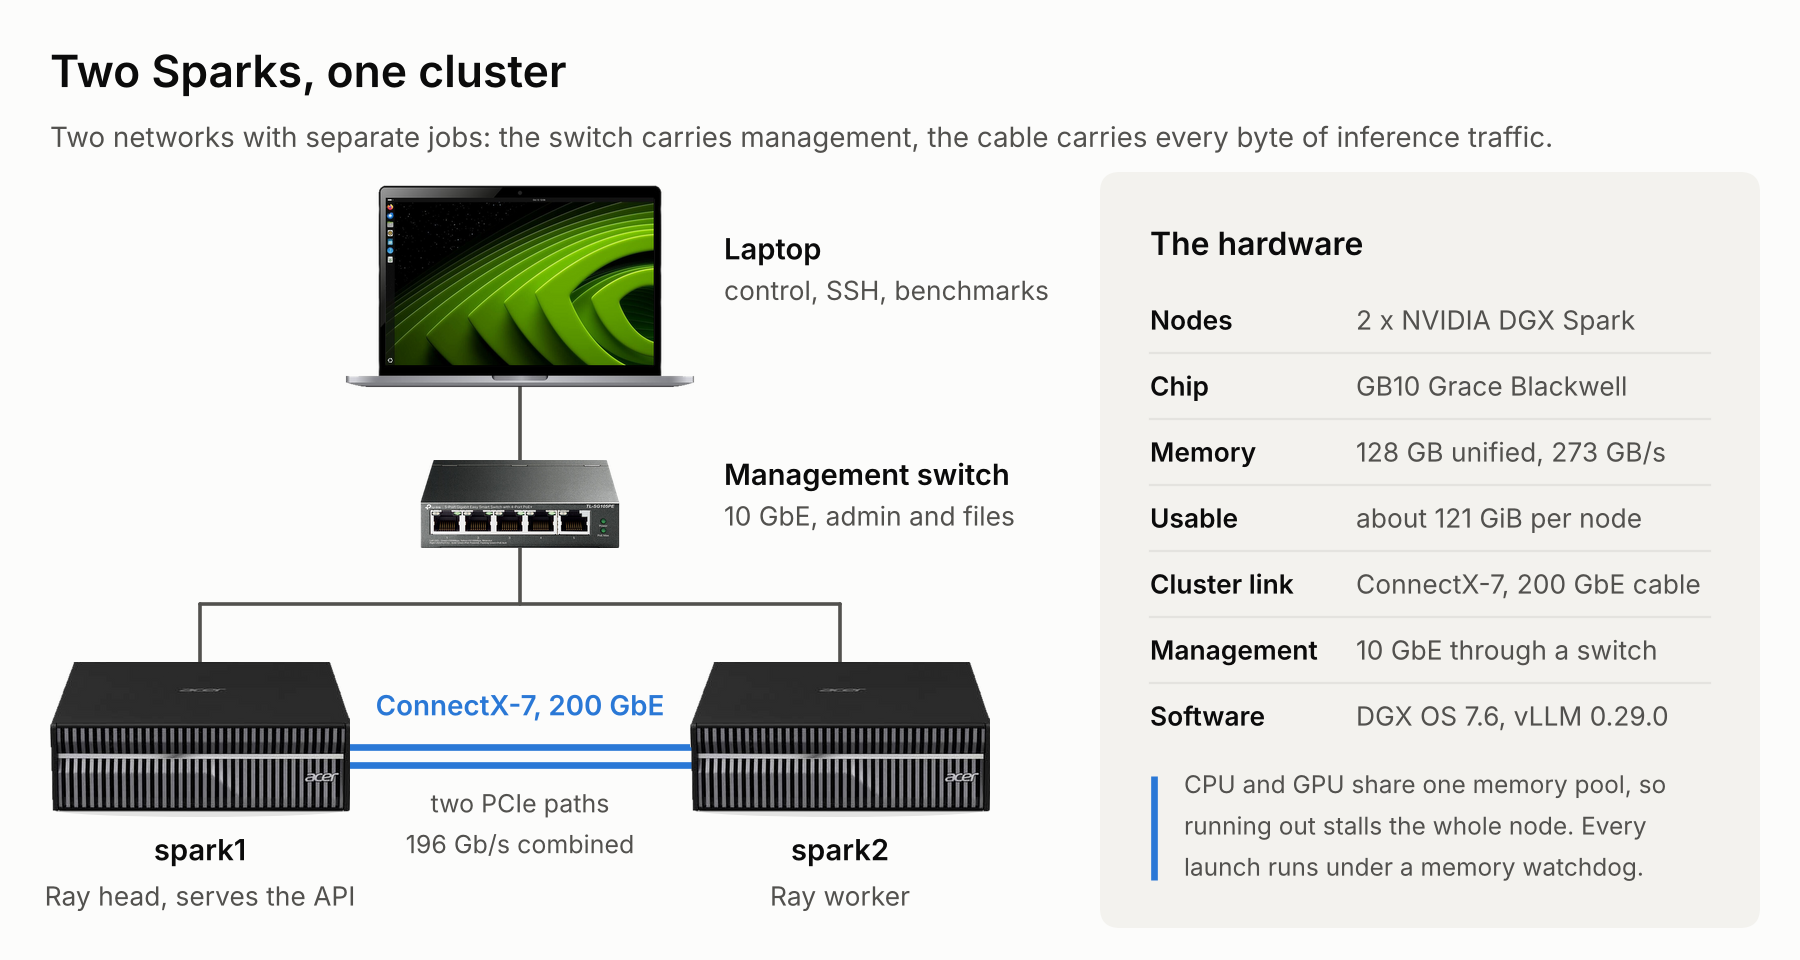
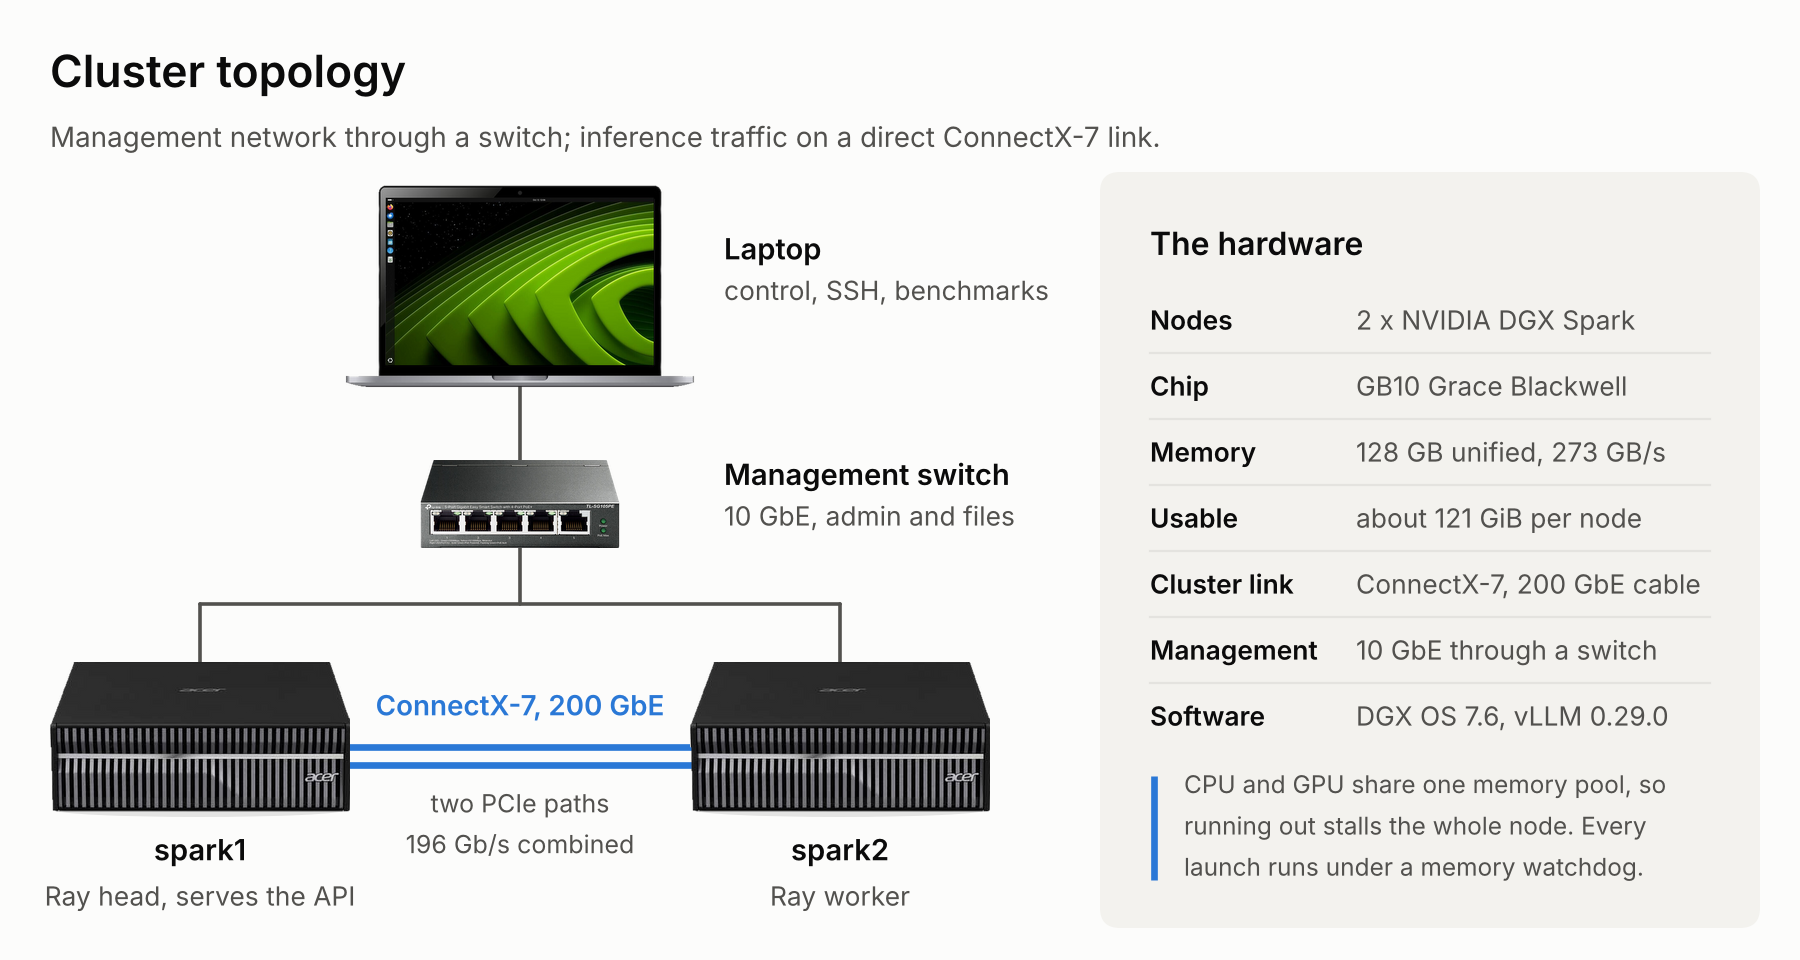
Plain README: state what was built and tested (#1)
- Retitle README to match the report: "Multi-Node LLM Inference on Two NVIDIA DGX Sparks"
- Replace tagline and editorial findings with what was built, what was tested, and a results table of measured numbers
- Add a status line for the pending compiled-stack rerun (report section 8)
- Rewrite the report summary bullets in the same plain tone
- Retitle the topology figure "Cluster topology"

Claude-Session: https://claude.ai/code/session_01KrfyMcMuAf2RmLbyehHn1p

Changed region(s): [[0.0311, 0.125, 0.8711, 0.1562], [0.0311, 0.0625, 0.3111, 0.0938]]

diff --git a/scripts/make_figures.py b/scripts/make_figures.py
@@ -263,9 +263,9 @@ def topology():
             "running out stalls the whole node. Every\nlaunch runs under a memory watchdog.",
             fontsize=8.8, color=INK2, va="center", linespacing=1.4, zorder=3)
 
-    ax.text(0.25, H - 0.22, "Two Sparks, one cluster", fontsize=16, weight="semibold", color=INK, va="top")
-    ax.text(0.25, H - 0.6, "Two networks with separate jobs: the switch carries management, "
-            "the cable carries every byte of inference traffic.", fontsize=10, color=INK2, va="top")
+    ax.text(0.25, H - 0.22, "Cluster topology", fontsize=16, weight="semibold", color=INK, va="top")
+    ax.text(0.25, H - 0.6, "Management network through a switch; inference traffic on a direct "
+            "ConnectX-7 link.", fontsize=10, color=INK2, va="top")
     ax.set_xlim(0, W)
     ax.set_ylim(0, H)
     save(fig, "topology.png")

diff --git a/README.md b/README.md
@@ -1,22 +1,46 @@
-# Two DGX Sparks, One Cable
+# Multi-Node LLM Inference on Two NVIDIA DGX Sparks
 
-What a second NVIDIA DGX Spark actually buys for LLM inference, measured. Two GB10 systems joined by a direct 200 GbE ConnectX-7 link, serving models across both nodes with vLLM, with predictions recorded before each experiment and scored after.
+Two NVIDIA DGX Spark nodes, connected by a direct 200 GbE ConnectX-7 link and a separate management network, serving LLMs across both nodes with vLLM. This repository contains the setup guide, the validation scripts, the measured data and a full report: [REPORT.md](REPORT.md).
 
-**Read the write-up: [REPORT.md](REPORT.md)**
+![Cluster topology: a laptop and switch on the management network, two DGX Sparks joined by one ConnectX-7 cable](figures/topology.png)
 
-![Two Sparks, one cluster: a laptop and switch on the management network, two DGX Sparks joined by one ConnectX-7 cable](figures/topology.png)
+## What was built
 
-## Findings
+- **Hardware:** 2 x NVIDIA DGX Spark (GB10 Grace Blackwell, 128 GB unified memory at 273 GB/s, sm_121).
+- **Network:** a direct 200 GbE QSFP cable between the two ConnectX-7 ports for inference traffic; a 10 GbE switch and a laptop on a private subnet for management.
+- **Software:** vLLM serving one model across both nodes with Ray and NCCL over RDMA. Pilot runs used a containerized vLLM in eager mode; later runs used native vLLM 0.29.0 on DGX OS 7.6.0.
 
-- **The link reaches 196 Gb/s, but only with both PCIe paths driven at once.** One path caps near 112 Gb/s at any frame size.
-- **Tensor parallelism beats pipeline parallelism across the wire,** 2.01x single-stream and 1.65x at concurrency 32. The prediction said the opposite; transfer volume, not bandwidth ratio, decides it.
-- **A second node helps even when the model fits on one:** 1.57x single-stream throughput and 1.77x faster per-token latency for a 27B model.
-- **Decode is memory-bandwidth bound plus a constant.** 87.7% of the 273 GB/s ceiling, and about 30 ms per forward pass of eager-mode overhead regardless of model or node count.
-- **Throughput claims need a correctness gate.** Every configuration must return correct, uncontaminated answers under load before its numbers count.
+## What was tested
 
-![Tensor parallelism beats pipeline parallelism across the link](figures/tp_vs_pp.png)
+- ConnectX-7 link bandwidth and latency, one PCIe path versus both
+- Tensor parallelism (TP2) versus pipeline parallelism (PP2) across the link
+- One node versus two for a model that fits on one
+- Single-stream decode against the memory-bandwidth ceiling
+- KV-cache capacity at BF16, FP8 and NVFP4
+- A correctness gate under concurrent load, required before any throughput number is counted
 
-## Building it
+Predictions were recorded before each pilot experiment and scored afterward (report section 5).
+
+## Results
+
+| Test | Configuration | Result |
+|---|---|---|
+| Link bandwidth | Both PCIe paths, MTU 9000, `ib_write_bw` | 196.03 Gb/s (98% of line rate) |
+| Link bandwidth | One PCIe path | 111.7 Gb/s |
+| Link latency | `ib_write_lat` | about 1.7 µs |
+| TP2 vs PP2 | Llama 3.3 70B, concurrency 1 | 3.39 vs 1.69 tok/s (2.01x) |
+| TP2 vs PP2 | Llama 3.3 70B, concurrency 32 | 65.3 vs 39.5 tok/s (1.65x) |
+| Two nodes vs one | Qwen3.8 27B, concurrency 1 | 5.71 vs 3.64 tok/s (1.57x); 130 vs 230 ms per token |
+| Decode efficiency | Llama 3.3 70B TP2, concurrency 1 | 87.7% of the 273 GB/s ceiling |
+| Fixed overhead | Pilot, eager mode, all configurations | about 30 ms per forward pass |
+| KV-cache capacity | Qwen3.8 27B, relative to BF16 | NVFP4 weights 1.64x; FP8 KV cache 1.35x |
+| Single-node throughput | Qwen3.8 27B, native stack, concurrency 64 | 120.7 tok/s; ceiling about 191 sequences |
+
+![Tensor parallelism versus pipeline parallelism, Llama 3.3 70B](figures/tp_vs_pp.png)
+
+**Status:** the pilot ran in eager mode. A rerun of the pilot on the compiled native stack is planned; report section 8 lists its predictions, and results will be added there.
+
+## Setup screenshots
 
 NVIDIA's Cluster Assistant configures the ConnectX-7 link: two addresses per node, one per PCIe path, then a link test. Its 185.2 Gbps is the dual-path rate before jumbo frames; with MTU 9000 the link measures 196 Gb/s. Full steps: [docs/SETUP.md](docs/SETUP.md).
 
@@ -36,9 +60,7 @@ NVIDIA's Cluster Assistant configures the ConnectX-7 link: two addresses per nod
 | [`results/`](results/) | Measured data as CSV |
 | [`figures/`](figures/) | Charts, regenerated from `results/` by [`scripts/make_figures.py`](scripts/make_figures.py) |
 
-## Hardware and software
-
-2 x NVIDIA DGX Spark (GB10 Grace Blackwell, 128 GB unified memory, sm_121), one 200 GbE QSFP direct-attach cable, a laptop for control. Native vLLM 0.29.0, PyTorch 2.13, FlashInfer 0.6.18, NCCL 2.29.7, Ray 2.58.0 on DGX OS 7.6.0. Pilot runs used an earlier containerized vLLM; versions are listed in the report.
+Software versions: native vLLM 0.29.0, PyTorch 2.13, FlashInfer 0.6.18, NCCL 2.29.7, Ray 2.58.0 on DGX OS 7.6.0. Pilot versions are listed in the report.
 
 ## License
 

diff --git a/REPORT.md b/REPORT.md
@@ -6,13 +6,13 @@ Jacob Willson · October 2026
 
 Two NVIDIA DGX Spark systems were joined over a direct 200 GbE ConnectX-7 cable and run as one vLLM inference cluster. The work had two stages: a pilot that compared parallelism strategies with predictions recorded in advance, and a calibration phase that moved to a native software stack and built a correctness-gated measurement method.
 
-Five results stand out.
+Main results:
 
-- **The link reaches 196.03 Gb/s, 98% of line rate, but only when both PCIe paths are driven at once.** One path caps near 112 Gb/s at any frame size.
-- **Tensor parallelism beats pipeline parallelism across the wire,** by 2.01x on single-stream decode and 1.65x at concurrency 32. The pilot predicted the opposite.
-- **A second node helps even when the model fits on one.** Splitting a 27B model gave 1.57x single-stream throughput and 1.77x faster per-token latency, also contrary to prediction.
-- **Decode is governed by memory bandwidth, plus a constant.** Single-stream decode reached 87.7% of the 273 GB/s ceiling, and every configuration paid about 30 ms per forward pass on top of weight streaming in eager mode.
-- **On the native stack, throughput claims need a correctness gate.** Fast output can be wrong output. Every configuration here had to return correct, uncontaminated answers under load before its numbers counted.
+- **Link bandwidth:** 196.03 Gb/s, 98% of line rate, with both PCIe paths driven at once. One path reaches about 112 Gb/s at any frame size.
+- **Tensor versus pipeline parallelism:** TP2 was 2.01x faster than PP2 on single-stream decode and 1.65x faster at concurrency 32 (Llama 3.3 70B). The pilot predicted PP2 would win.
+- **One node versus two:** splitting Qwen3.8 27B across both nodes gave 1.57x single-stream throughput and 1.77x lower per-token latency, although the model fits on one node. The pilot predicted no single-stream gain.
+- **Decode efficiency:** single-stream decode reached 87.7% of the 273 GB/s memory-bandwidth ceiling. In eager mode, every configuration also paid about 30 ms per forward pass beyond weight streaming.
+- **Correctness gate:** on the native stack, each configuration had to return correct answers, with no cross-request contamination, under concurrent load before its throughput was counted.
 
 ![Line rate needs both PCIe paths](figures/interconnect.png)
 
@@ -35,7 +35,7 @@ Two networks with separate jobs:
 
 Keeping them apart means an administrative session cannot disturb a benchmark, and a benchmark cannot lock an operator out.
 
-![Two Sparks, one cluster: a laptop and switch on the management network, two DGX Sparks joined by one ConnectX-7 cable](figures/topology.png)
+![Cluster topology: a laptop and switch on the management network, two DGX Sparks joined by one ConnectX-7 cable](figures/topology.png)
 
 ## 3. Interconnect
 
